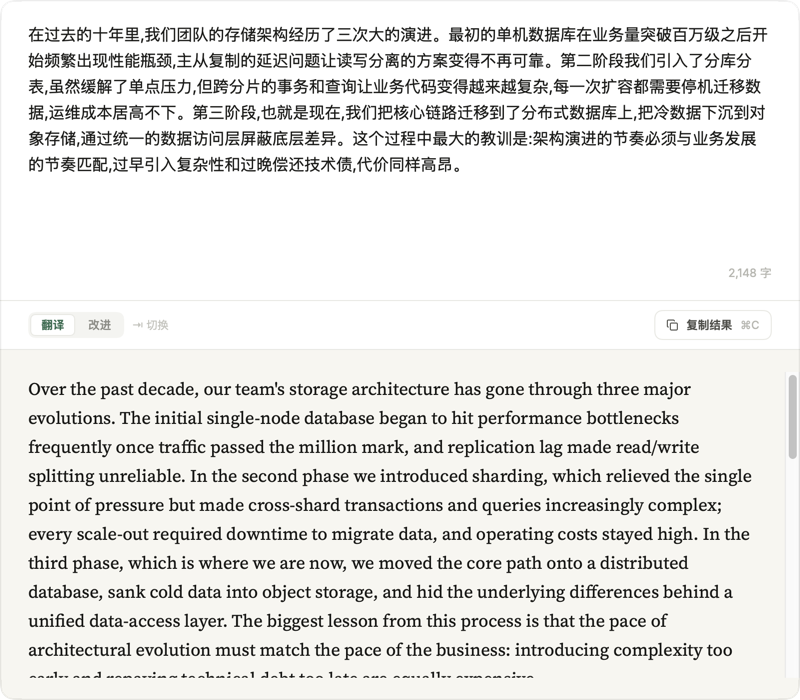
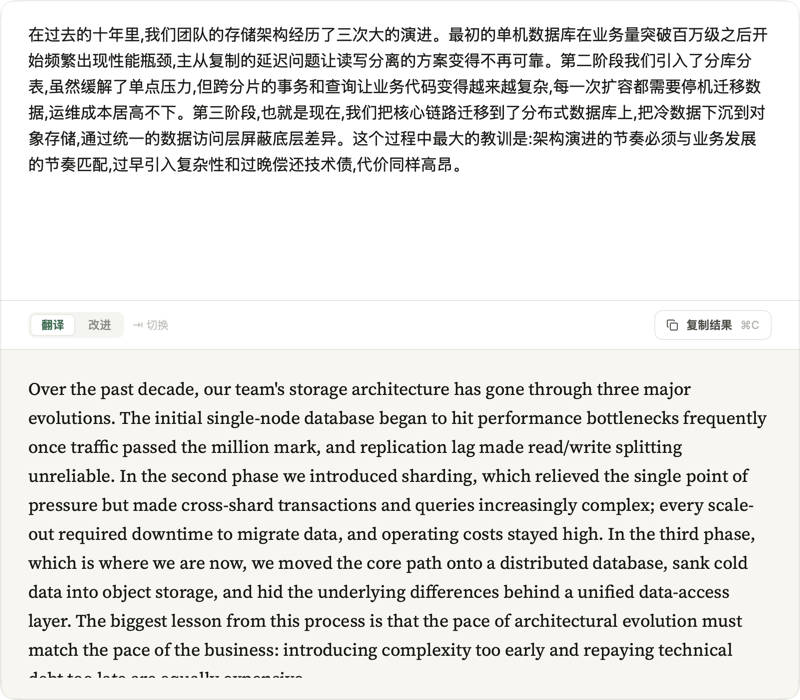
refactor: drop the source pane's character count
The count in the source pane's bottom-right corner told the user nothing
they act on, so the label, the formatted count in ComposerTextMetrics and
the document-chrome flag are gone. The Pencil "最大高度" state and the panel
spec no longer show or describe it; the long state capture is refreshed.

Changed region(s): [[0.0312, 0.63, 0.9375, 0.99], [0.8438, 0.54, 1.0, 0.66], [0.9375, 0.36, 0.9688, 0.39]]

diff --git a/Sources/Cida/ComposerTextEditor.swift b/Sources/Cida/ComposerTextEditor.swift
@@ -3,7 +3,6 @@ import SwiftUI
 
 struct ComposerTextMetrics: Equatable, Sendable {
   let characterCount: Int
-  let formattedCharacterCount: String
   let hasLineBreak: Bool
   let lineCount: Int
   let hasNonWhitespace: Bool
@@ -28,7 +27,6 @@ struct ComposerTextMetrics: Equatable, Sendable {
       utf16Count >= ComposerNativeTextView.virtualDocumentThreshold
       ? utf16Count
       : text.count
-    formattedCharacterCount = Self.formatCharacterCount(characterCount)
     lineCount =
       utf16Count < 800
       ? text.reduce(into: 1) { count, character in
@@ -50,7 +48,6 @@ struct ComposerTextMetrics: Equatable, Sendable {
 
   init(
     characterCount: Int,
-    formattedCharacterCount: String? = nil,
     hasLineBreak: Bool,
     lineCount: Int = 1,
     hasNonWhitespace: Bool,
@@ -58,8 +55,6 @@ struct ComposerTextMetrics: Equatable, Sendable {
     presentationState: ComposerPresentationState? = nil
   ) {
     self.characterCount = characterCount
-    self.formattedCharacterCount =
-      formattedCharacterCount ?? Self.formatCharacterCount(characterCount)
     self.hasLineBreak = hasLineBreak
     self.lineCount = max(lineCount, hasLineBreak ? 2 : 1)
     self.hasNonWhitespace = hasNonWhitespace
@@ -92,7 +87,6 @@ struct ComposerTextMetrics: Equatable, Sendable {
     guard characterCount >= ComposerNativeTextView.virtualDocumentThreshold else { return self }
     return Self(
       characterCount: characterCount,
-      formattedCharacterCount: formattedCharacterCount,
       hasLineBreak: hasLineBreak,
       lineCount: lineCount,
       hasNonWhitespace: hasNonWhitespace,
@@ -104,7 +98,6 @@ struct ComposerTextMetrics: Equatable, Sendable {
   func presented(as presentationState: ComposerPresentationState) -> Self {
     Self(
       characterCount: characterCount,
-      formattedCharacterCount: formattedCharacterCount,
       hasLineBreak: hasLineBreak,
       lineCount: lineCount,
       hasNonWhitespace: hasNonWhitespace,
@@ -127,20 +120,6 @@ struct ComposerTextMetrics: Equatable, Sendable {
     let wrappedLineCount = max(1, Int(ceil(Double(characterCount) / 90)))
     return .multiline(visibleLineCount: min(5, max(lineCount, wrappedLineCount)))
   }
-
-  private static func formatCharacterCount(_ value: Int) -> String {
-    let digits = String(value)
-    guard digits.count > 3 else { return digits }
-    var result = ""
-    result.reserveCapacity(digits.count + digits.count / 3)
-    for (index, character) in digits.enumerated() {
-      if index > 0, (digits.count - index).isMultiple(of: 3) {
-        result.append(",")
-      }
-      result.append(character)
-    }
-    return result
-  }
 }
 
 struct ComposerTextEditor: NSViewRepresentable {
@@ -148,7 +127,7 @@ struct ComposerTextEditor: NSViewRepresentable {
   @Binding var metrics: ComposerTextMetrics
   let isFocused: FocusState<Bool>.Binding
   /// Distance from the editor's edges to the text column; the editor spans the
-  /// window so its scroll indicator stays at the window edge.
+  /// window so its scroll bar stays at the window edge.
   let horizontalInset: CGFloat
   /// Bumped when the whole text should be selected, e.g. when the panel is
   /// shown again with the previous source in it.

diff --git a/Sources/Cida/PanelView.swift b/Sources/Cida/PanelView.swift
@@ -181,18 +181,6 @@ private struct SourcePane: View {
         CidaMotion.easeOutAnimation(duration: CidaMotion.heightSeconds),
         value: editorHeight
       )
-
-      if metrics.presentationState.showsDocumentChrome {
-        Text("\(metrics.formattedCharacterCount) 字")
-          .font(CidaDesign.mainUI(11.5))
-          .foregroundStyle(CidaDesign.textTertiary)
-          .accessibilityLabel("输入了 \(metrics.formattedCharacterCount) 个字符")
-          .accessibilityIdentifier("source-character-count")
-          .frame(maxWidth: .infinity, maxHeight: .infinity, alignment: .bottomTrailing)
-          .padding(.trailing, CidaDesign.Spacing.windowHorizontal)
-          .padding(.bottom, 2)
-          .allowsHitTesting(false)
-      }
     }
     .frame(maxWidth: .infinity)
     .padding(.vertical, CidaDesign.Spacing.paneVertical)

diff --git a/Sources/Cida/ComposerNativeTextView.swift b/Sources/Cida/ComposerNativeTextView.swift
@@ -39,7 +39,6 @@ final class ComposerNativeTextView: NSTextView {
     if let virtualDocumentMetrics {
       return ComposerTextMetrics(
         characterCount: documentUTF16Length,
-        formattedCharacterCount: virtualDocumentMetrics.formattedCharacterCount,
         hasLineBreak: virtualDocumentMetrics.hasLineBreak,
         hasNonWhitespace: virtualDocumentMetrics.hasNonWhitespace,
         isImportingLargeDocument: false
@@ -282,7 +281,6 @@ final class ComposerNativeTextView: NSTextView {
 
     let completedMetrics = ComposerTextMetrics(
       characterCount: document.source.length,
-      formattedCharacterCount: document.metrics.formattedCharacterCount,
       hasLineBreak: document.metrics.hasLineBreak,
       hasNonWhitespace: document.metrics.hasNonWhitespace,
       isImportingLargeDocument: false

diff --git a/Tests/CidaTests/AppModelTests.swift b/Tests/CidaTests/AppModelTests.swift
@@ -337,7 +337,6 @@ final class AppModelTests: XCTestCase {
   func testComposerPresentationStateDoesNotReplaceTheTrueDocumentMetrics() {
     let metrics = ComposerTextMetrics(
       characterCount: 1_000_000,
-      formattedCharacterCount: "1,000,000",
       hasLineBreak: true,
       lineCount: 8_000,
       hasNonWhitespace: true,
@@ -348,7 +347,6 @@ final class AppModelTests: XCTestCase {
     let multilinePresentation = metrics.presented(as: .multiline(visibleLineCount: 5))
 
     XCTAssertEqual(compactPresentation.characterCount, 1_000_000)
-    XCTAssertEqual(compactPresentation.formattedCharacterCount, "1,000,000")
     XCTAssertEqual(compactPresentation.presentationState, .compact)
     XCTAssertEqual(multilinePresentation.characterCount, 1_000_000)
     XCTAssertEqual(

diff --git a/Sources/Cida/InteractionState.swift b/Sources/Cida/InteractionState.swift
@@ -29,10 +29,6 @@ enum ComposerPresentationState: Equatable, Sendable {
   case compact
   case multiline(visibleLineCount: Int)
   case document
-
-  var showsDocumentChrome: Bool {
-    self == .document
-  }
 }
 
 /// What the right-hand slot of the control bar shows. One slot, one button,

diff --git a/functional-qa.md b/functional-qa.md
@@ -131,6 +131,12 @@ are recorded as diagnostics rather than misclassified as test activity.
   `TestResults/panel-mutations-20260923` and `TestResults/panel-mutations-20260923-fix`; all 8
   killed again on the Settings redesign commit 805366e (`TestResults/settings-mutations-20260923`).
 
+### Tart XCUI run `count-tart-20260923`
+
+18 of 18 tests passed after the source pane's character count was removed (artifact digest
[1 lines of base64/hex data omitted]
+`long` design state was re-captured; every other state capture is byte-identical.
+
 ### Tart XCUI run `overlay-tart-20260923`
 
 18 of 18 tests passed with the scroll bars pinned to the overlay style (`OverlayScrollView`; artifact
